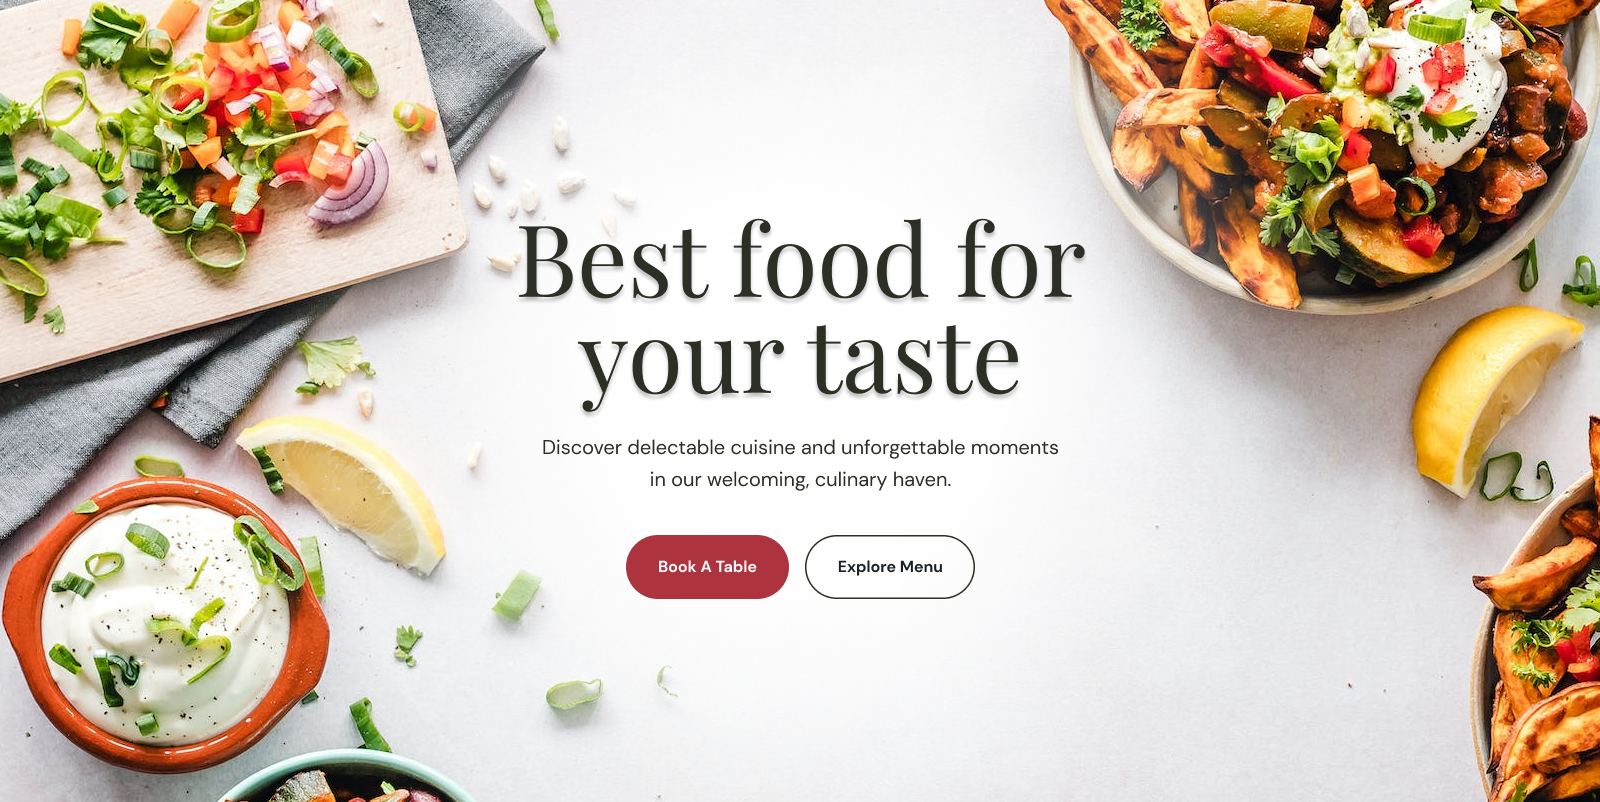
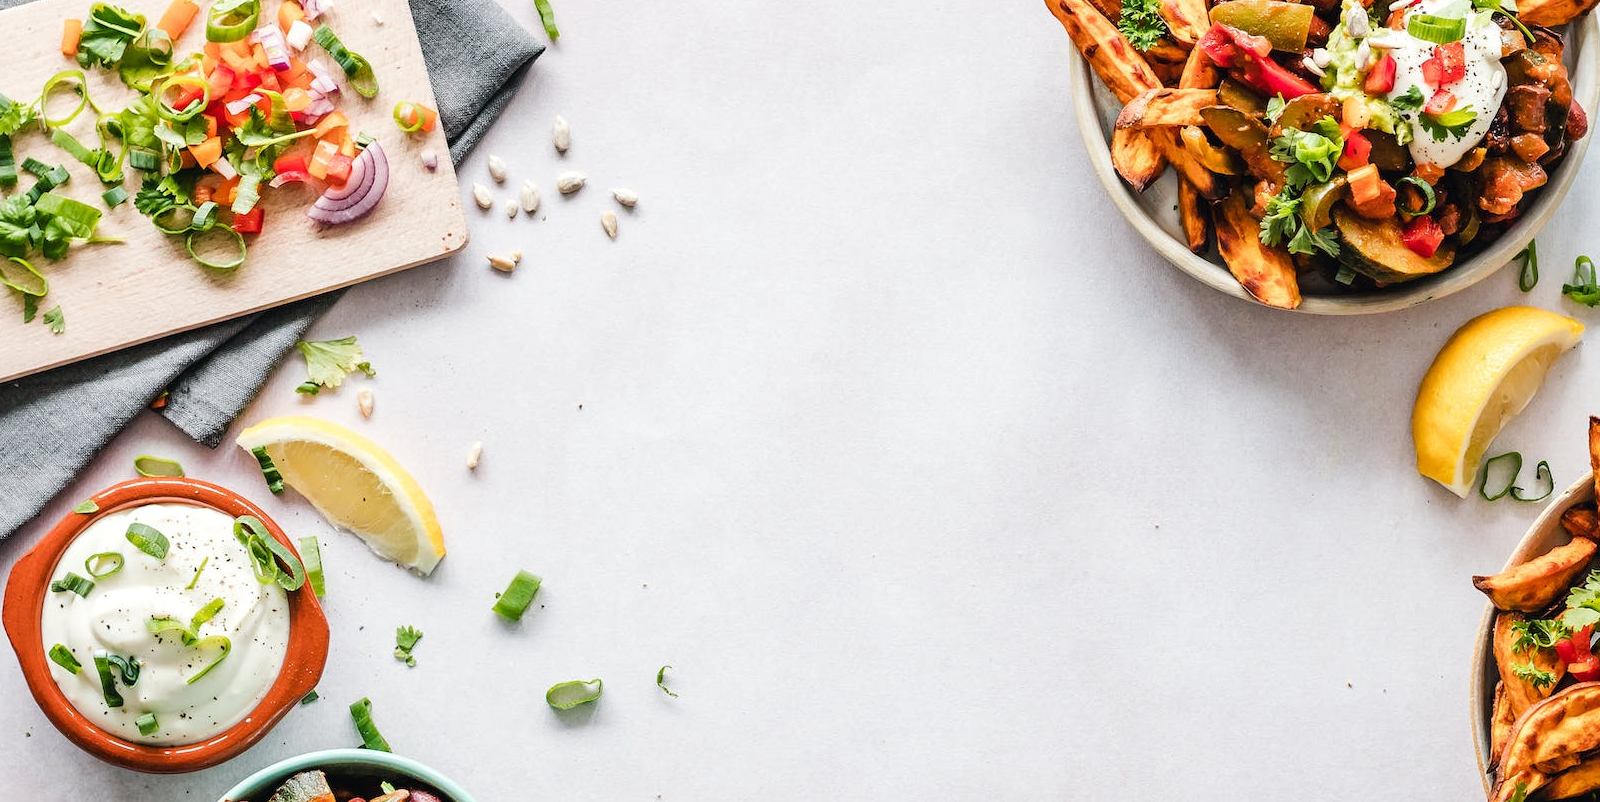
Việt
Home

diff --git a/template/Home.html b/template/Home.html
@@ -1,27 +1,56 @@
 <!DOCTYPE html>
 <html lang="en">
+
 <head>
     <meta charset="UTF-8">
     <meta name="viewport" content="width=device-width, initial-scale=1.0">
     <link rel="stylesheet" href="../CSS/style.css">
     <title>Document</title>
 </head>
+
 <body>
-    <div class="container">
-        <div class="container1">
-            <button class="btn1" href="#">
-                <h1>Book A Table</h1>
-            </button>
-            <button class="btn2" href="#">
-                <h1>Explore Menu</h1>
-            </button>
-        </div>
+    <style>
+        *{
+            margin: 0;
+            padding: 0;
+            box-sizing: border-box;
+        }
+        .container {
+            width: 100%;
+            height: 100vh;
+            background-image: url(../images/Home-main.png);
+            display: flex;
+            justify-content: center;
+            align-content: center;
+           
+        }
 
-        <div class="container2">
-            <h1>Browse Our Menu</h1>
 
-        </div>
+
+        .container .container2 .btn1 {
+            border-radius: 20px;
+            background-color: #AD343E;
+            font-size: 6px;
+            color: white;
+            padding: 10px 20px;
+        }
+
+        .container .container3 .btn2 {
+            border-radius: 20px;
+            font-size: 6px;
+            padding: 10px 20px;
+
+        }
+        h1 {
+            font-family: 'Playfair Display';
+            font-size: 100px;
+            font-weight: 400;
             
+        }
+    </style>
+    <div class="container">
+        
     </div>
 </body>
+
 </html>
